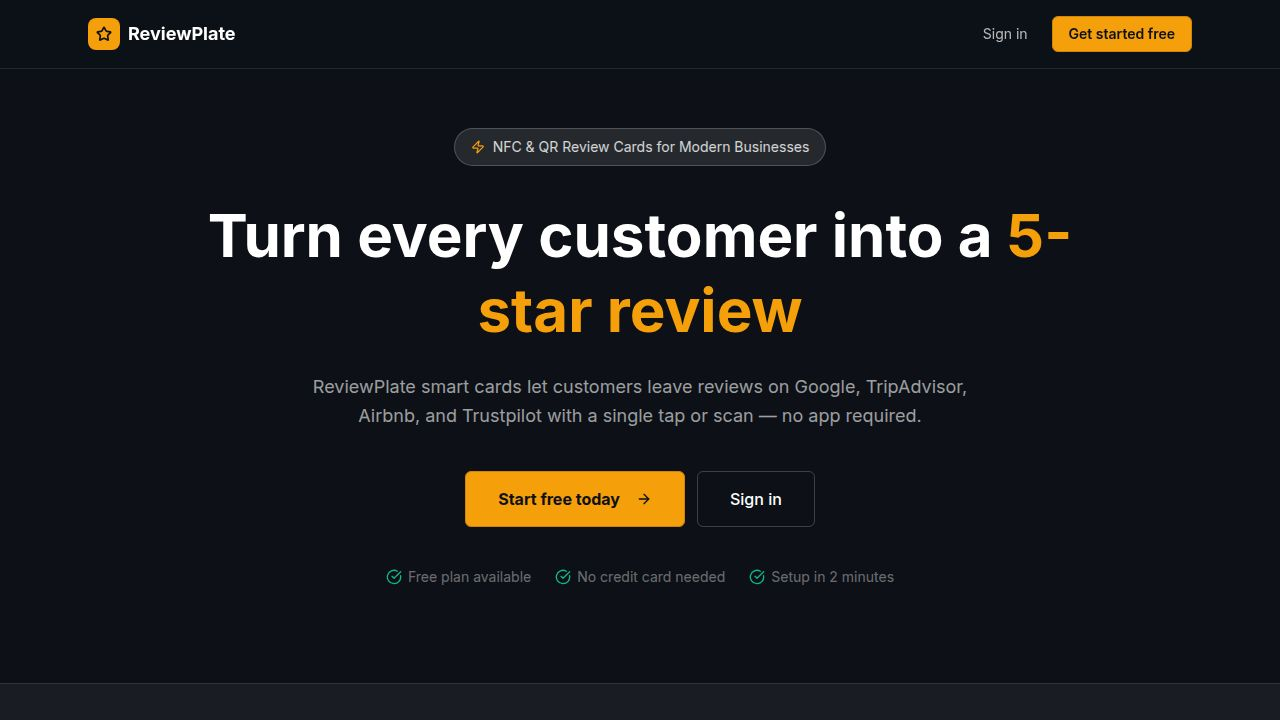
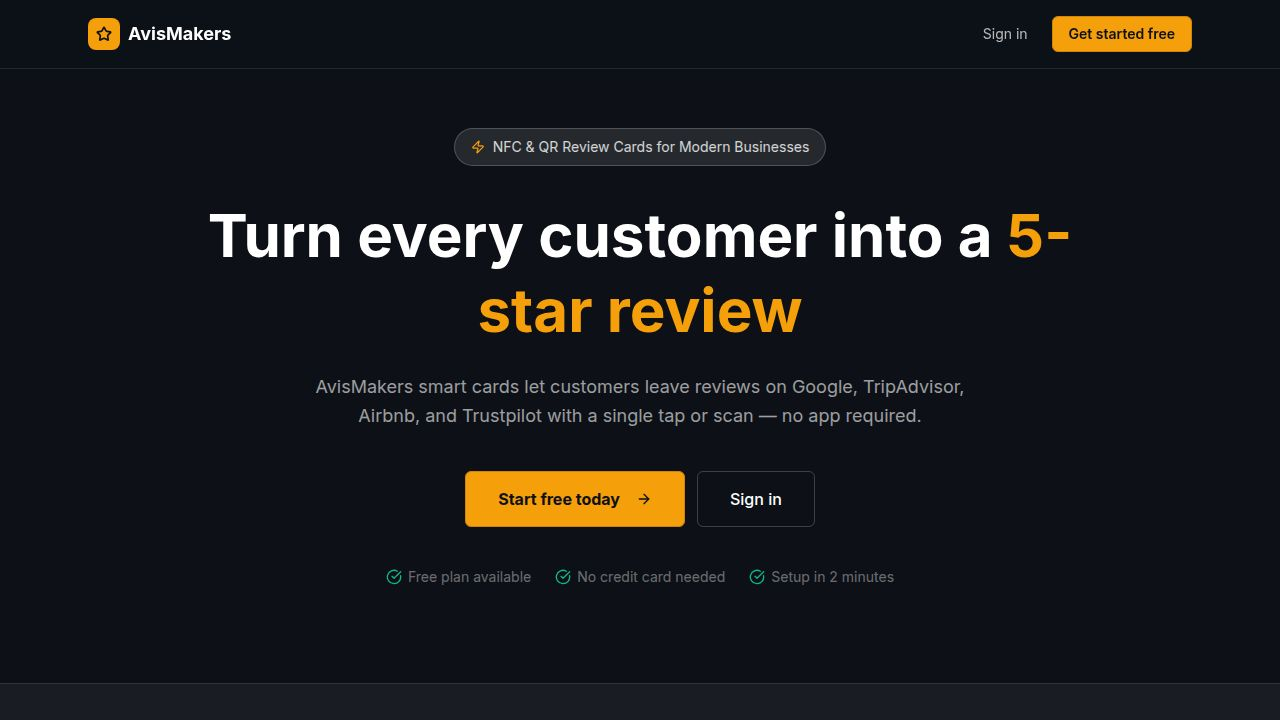
Add card analytics page and fix admin and AI reply bugs
Adds a new route and page for card analytics, updates admin statistics to include total profiles and renames `usersByPlan` to `planBreakdown`, fixes the AI reply page to send `originalReview` instead of `reviewText`, and updates the activation code placeholder format.

Replit-Commit-Author: Agent
Replit-Commit-Session-Id: af5d5264-31a2-4570-a133-4aac9b00caaf
Replit-Commit-Checkpoint-Type: full_checkpoint
Replit-Commit-Event-Id: fa3c26c7-e12c-449a-bff9-d7d3b453c227
Replit-Commit-Screenshot-Url: https://storage.googleapis.com/screenshot-production-us-central1/3c3bc3a8-0fd0-482c-bbbd-4985482d5541/af5d5264-31a2-4570-a133-4aac9b00caaf/yj2jm2S
Replit-Helium-Checkpoint-Created: true

Changed region(s): [[0.25, 0.5194, 0.75, 0.55], [0.0938, 0.0306, 0.1875, 0.0611]]

diff --git a/artifacts/reviewplate/src/pages/analytics/cards/[id].tsx b/artifacts/reviewplate/src/pages/analytics/cards/[id].tsx
@@ -1,0 +1,166 @@
+import { AuthLayout } from "@/components/layout/AuthLayout";
+import { useParams, Link } from "wouter";
+import { ArrowLeft, Activity, BarChart2, TrendingUp, AlertTriangle, Star } from "lucide-react";
+import { Card, CardContent, CardHeader, CardTitle } from "@/components/ui/card";
+import { Skeleton } from "@/components/ui/skeleton";
+import { Button } from "@/components/ui/button";
+import { useEffect, useState } from "react";
+import { useAuth } from "@/lib/auth-context";
+
+interface CardStats {
+  cardId: number;
+  totalScans: number;
+  scansThisMonth: number;
+  scansThisWeek: number;
+  averageRating: number | null;
+  negativeCount: number;
+  scansByDay: Array<{ date: string; count: number }>;
+  scansByCountry: Array<{ country: string; count: number }>;
+}
+
+export default function CardAnalyticsPage() {
+  const params = useParams<{ id: string }>();
+  const cardId = params.id;
+  const { token } = useAuth();
+  const [stats, setStats] = useState<CardStats | null>(null);
+  const [loading, setLoading] = useState(true);
+  const [error, setError] = useState(false);
+
+  useEffect(() => {
+    if (!cardId) return;
+    const t = token ?? localStorage.getItem("reviewplate_token");
+    setLoading(true);
+    fetch(`/api/analytics/cards/${cardId}/stats`, {
+      headers: { Authorization: `Bearer ${t}` },
+    })
+      .then((r) => (r.ok ? r.json() : Promise.reject(r)))
+      .then((data) => { setStats(data); setLoading(false); })
+      .catch(() => { setError(true); setLoading(false); });
+  }, [cardId, token]);
+
+  return (
+    <AuthLayout>
+      <div className="space-y-6 max-w-3xl">
+        <div className="flex items-center gap-4">
+          <Link href={`/cards/${cardId}`}>
+            <button className="p-2 rounded-lg hover:bg-[#F3F4F6] transition-colors" data-testid="button-back">
+              <ArrowLeft className="w-5 h-5 text-[#6B7280]" />
+            </button>
+          </Link>
+          <div>
+            <h1 className="text-2xl font-bold text-[#0D1117] flex items-center gap-2">
+              <BarChart2 className="w-6 h-6 text-primary" />
+              Card Analytics
+            </h1>
+            <p className="text-sm text-[#6B7280]">Performance stats for card #{cardId}</p>
+          </div>
+        </div>
+
+        {loading ? (
+          <div className="grid grid-cols-2 lg:grid-cols-4 gap-4">
+            {[1, 2, 3, 4].map(i => <Skeleton key={i} className="h-28" />)}
+          </div>
+        ) : error ? (
+          <Card className="bg-white border border-border">
+            <CardContent className="py-12 text-center">
+              <AlertTriangle className="w-10 h-10 text-red-400 mx-auto mb-3" />
+              <p className="text-sm text-[#6B7280]">Failed to load analytics. Make sure this card belongs to you.</p>
+              <Link href="/cards">
+                <Button className="mt-4" variant="outline">Back to cards</Button>
+              </Link>
+            </CardContent>
+          </Card>
+        ) : stats ? (
+          <>
+            <div className="grid grid-cols-2 lg:grid-cols-4 gap-4">
+              {[
+                { label: "Total Scans", value: stats.totalScans, icon: Activity, color: "bg-blue-50 text-blue-600" },
+                { label: "This Month", value: stats.scansThisMonth, icon: TrendingUp, color: "bg-green-50 text-green-600" },
+                { label: "This Week", value: stats.scansThisWeek, icon: BarChart2, color: "bg-amber-50 text-amber-600" },
+                { label: "Negative", value: stats.negativeCount, icon: AlertTriangle, color: "bg-red-50 text-red-600" },
+              ].map((stat) => (
+                <Card key={stat.label} className="bg-white border border-border shadow-sm">
+                  <CardContent className="p-5">
+                    <div className="flex items-center justify-between mb-3">
+                      <p className="text-xs font-medium text-[#6B7280]">{stat.label}</p>
+                      <div className={`w-8 h-8 rounded-lg flex items-center justify-center ${stat.color}`}>
+                        <stat.icon className="w-4 h-4" />
+                      </div>
+                    </div>
+                    <p className="text-2xl font-bold text-[#0D1117]">{stat.value.toLocaleString()}</p>
+                  </CardContent>
+                </Card>
+              ))}
+            </div>
+
+            {stats.averageRating !== null && (
+              <Card className="bg-white border border-border shadow-sm">
+                <CardContent className="p-5 flex items-center gap-4">
+                  <div className="w-14 h-14 bg-amber-50 rounded-xl flex items-center justify-center">
+                    <Star className="w-7 h-7 text-primary" fill="#F59E0B" />
+                  </div>
+                  <div>
+                    <p className="text-3xl font-bold text-[#0D1117]">{stats.averageRating.toFixed(1)}</p>
+                    <p className="text-sm text-[#6B7280]">Average rating from smart review flow</p>
+                  </div>
+                </CardContent>
+              </Card>
+            )}
+
+            {stats.scansByDay.length > 0 && (
+              <Card className="bg-white border border-border shadow-sm">
+                <CardHeader className="border-b border-border pb-4">
+                  <CardTitle className="text-base font-semibold text-[#0D1117]">Scans by Day</CardTitle>
+                </CardHeader>
+                <CardContent className="p-5">
+                  <div className="space-y-2">
+                    {stats.scansByDay.slice(-10).map((d) => (
+                      <div key={d.date} className="flex items-center gap-3">
+                        <span className="text-xs text-[#6B7280] w-24 shrink-0">{d.date}</span>
+                        <div className="flex-1 bg-[#F3F4F6] rounded-full h-2.5 overflow-hidden">
+                          <div
+                            className="bg-primary h-2.5 rounded-full"
+                            style={{ width: `${Math.min(100, (d.count / Math.max(...stats.scansByDay.map(x => x.count))) * 100)}%` }}
+                          />
+                        </div>
+                        <span className="text-xs font-semibold text-[#374151] w-6 text-right">{d.count}</span>
+                      </div>
+                    ))}
+                  </div>
+                </CardContent>
+              </Card>
+            )}
+
+            {stats.scansByCountry.length > 0 && (
+              <Card className="bg-white border border-border shadow-sm">
+                <CardHeader className="border-b border-border pb-4">
+                  <CardTitle className="text-base font-semibold text-[#0D1117]">Scans by Location</CardTitle>
+                </CardHeader>
+                <CardContent className="p-5">
+                  <div className="space-y-2">
+                    {stats.scansByCountry.slice(0, 8).map((c) => (
+                      <div key={c.country} className="flex items-center justify-between py-1.5">
+                        <span className="text-sm text-[#374151]">{c.country}</span>
+                        <span className="text-sm font-semibold text-[#0D1117]">{c.count} scans</span>
+                      </div>
+                    ))}
+                  </div>
+                </CardContent>
+              </Card>
+            )}
+
+            {stats.totalScans === 0 && (
+              <Card className="bg-white border border-border">
+                <CardContent className="py-12 text-center">
+                  <Activity className="w-12 h-12 text-[#D1D5DB] mx-auto mb-3" />
+                  <p className="text-sm font-medium text-[#374151]">No scans yet</p>
+                  <p className="text-xs text-[#9CA3AF] mt-1">Share your card link to start collecting scans.</p>
+                </CardContent>
+              </Card>
+            )}
+          </>
+        ) : null}
+      </div>
+    </AuthLayout>
+  );
+}

diff --git a/artifacts/reviewplate/src/pages/admin/index.tsx b/artifacts/reviewplate/src/pages/admin/index.tsx
@@ -26,11 +26,11 @@ export default function AdminPage() {
   );
 
   const adminStats = stats as unknown as {
-    totalUsers: number; totalCards: number; totalScans: number;
-    totalProfiles: number; planBreakdown: Record<string, number>;
+    totalUsers: number; totalCards: number; activeCards: number; totalScans: number;
+    scansToday: number; totalProfiles: number; planBreakdown: Record<string, number>; revenueMonthly: number;
   } | undefined;
 
-  const userList = (users as unknown as { users: Array<{ id: number; name: string; email: string; plan: string; role: string; createdAt: string; cardCount: number }> })?.users ?? [];
+  const userList = (users as unknown as Array<{ id: number; name: string; email: string; plan: string; role: string; createdAt: string; cardCount: number; totalScans: number }>) ?? [];
 
   if (user?.role !== "admin") {
     return (

diff --git a/artifacts/api-server/src/routes/admin.ts b/artifacts/api-server/src/routes/admin.ts
@@ -62,13 +62,16 @@ router.get("/admin/stats", requireAdmin, async (req: AuthRequest, res): Promise<
     }
   }
 
+  const [totalProfilesResult] = await db.select({ count: count() }).from(businessProfilesTable);
+
   res.json({
     totalUsers: Number(totalUsersResult?.count ?? 0),
     totalCards: Number(totalCardsResult?.count ?? 0),
     activeCards: Number(activeCards[0]?.count ?? 0),
     totalScans: Number(totalScansResult?.count ?? 0),
     scansToday: Number(scansTodayResult?.count ?? 0),
-    usersByPlan,
+    totalProfiles: Number(totalProfilesResult?.count ?? 0),
+    planBreakdown: usersByPlan,
     revenueMonthly,
   });
 });

diff --git a/artifacts/reviewplate/src/App.tsx b/artifacts/reviewplate/src/App.tsx
@@ -21,6 +21,7 @@ import SupportPage from "@/pages/support";
 import ActivatePage from "@/pages/activate";
 
 import AdminPage from "@/pages/admin/index";
+import CardAnalyticsPage from "@/pages/analytics/cards/[id]";
 import ScanPage from "@/pages/scan";
 import NotFound from "@/pages/not-found";
 
@@ -57,6 +58,9 @@ function Router() {
       <Route path="/ai-reply" component={AiReplyPage} />
       <Route path="/billing" component={BillingPage} />
       <Route path="/support" component={SupportPage} />
+
+      {/* Analytics */}
+      <Route path="/analytics/cards/:id" component={CardAnalyticsPage} />
 
       {/* Admin */}
       <Route path="/admin" component={AdminPage} />

diff --git a/artifacts/reviewplate/src/pages/activate.tsx b/artifacts/reviewplate/src/pages/activate.tsx
@@ -95,7 +95,7 @@ export default function ActivatePage() {
               <Input
                 value={code}
                 onChange={(e) => setCode(e.target.value.toUpperCase())}
-                placeholder="e.g. RP-ABCD-1234"
+                placeholder="e.g. GM-63XPKF"
                 className="h-14 text-center text-2xl font-mono font-bold tracking-widest uppercase"
                 maxLength={16}
                 data-testid="input-activation-code"

diff --git a/artifacts/reviewplate/src/pages/ai-reply.tsx b/artifacts/reviewplate/src/pages/ai-reply.tsx
@@ -27,7 +27,7 @@ export default function AiReplyPage() {
   const handleGenerate = () => {
     if (!review.trim()) return;
     generateMutation.mutate(
-      { data: { reviewText: review, tone, platform } },
+      { data: { originalReview: review, tone, platform } },
       {
         onSuccess: (result) => {
           const r = result as unknown as { reply: string };